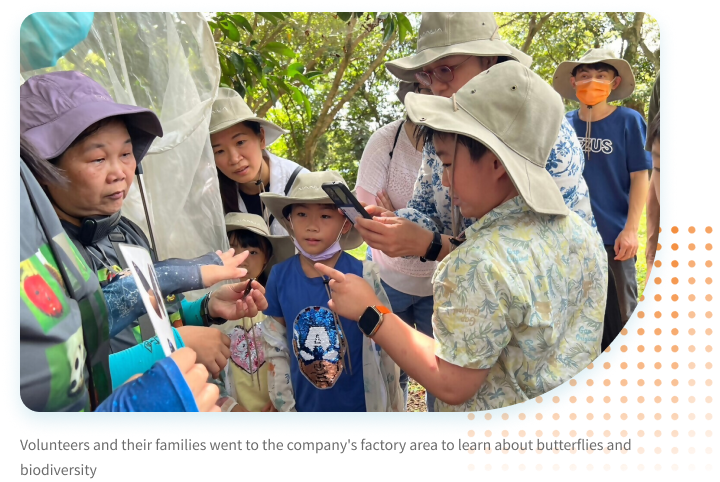
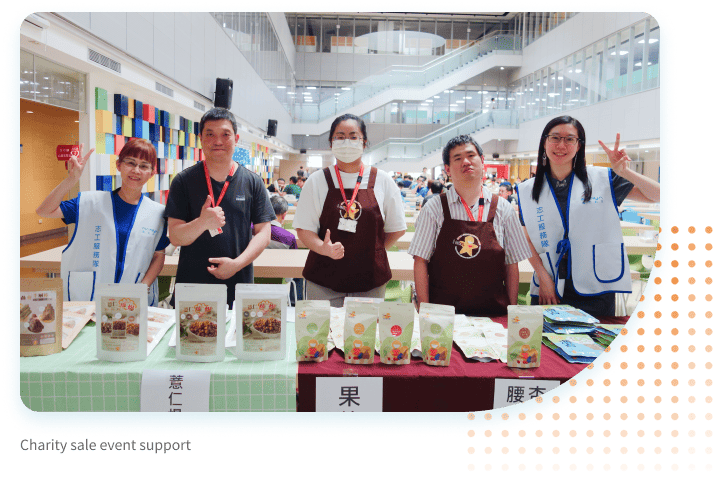
更共榮

diff --git a/en/common_good.html b/en/common_good.html
@@ -284,7 +284,7 @@ common-good  ">
               <small data-animate="fadeInUp" data-animate-delay="0.6">An Active Contributor to Society</small>
             </h1>
 
-            <p data-animate="fadeInUp" data-animate-delay="0.8">Nanya is committed to social engagement and participates in public affairs and local care to become an active participant that gives back to the society. We promote social influence and community development to lead society to a better and sustainable future.</p>
+            <p data-animate="fadeInUp" data-animate-delay="0.8">Nanya Technology is committed to social engagement and participates in public affairs and local care to become an active participant that gives back to the society. We promote social influence and community development to lead society to a better and sustainable future.</p>
           </div>
         </div>
 
@@ -384,10 +384,10 @@ common-good  ">
                       <h4>Social Engagement</h4>
 
                       <ul class="unordered">
-                          <li>Talent cultivation: Collaborating with schools to instill sustainability concepts in young students, and developing a diverse new generation of professional talent</li>
+                          <li>Talent Cultivation: Collaborating with schools to instill sustainability concepts in young students, and developing a diverse new generation of professional talent</li>
                           <li>Environmental Conservation: Connecting different types of non-profit organizations to promote environmental concepts, maintaining ecological diversity and moving toward a low-carbon society</li>
                           <li>Community Harmony: Engaging in neighborhood (nearby community) public affairs to create a harmonious and mutually beneficial living environment</li>
-                          <li>Humanistic care: Integrating Local Resources to Characterize Regional Humanistic Landscape</li>
+                          <li>Humanistic Care: Integrating Local Resources to Characterize Regional Humanistic Landscape</li>
                       </ul>
 
                     </div>
@@ -669,7 +669,7 @@ common-good  ">
                                 <ul class="unordered">
                                     <li>Responsible consumption n: A total of NT$312,924 spent through charity sales and farmers' markets</li>
                                     <li>Creating inclusive employment and sales opportunities: 16 organizations</li>
-                                    <li>Boosting community economy: Procured 228 kg of fair-trade coffee</li>
+                                    <li>Boosting community economy: Procured 228 kg of fair-trade coffee ; total project rental expenditure NT$297,360</li>
                                     <li>Promoting responsible consumption: Implemented across 5 schools</li>
                                 </ul>
                           </div>
@@ -916,7 +916,7 @@ common-good  ">
 
             </li>
             <li>
-              <b>Sports: table tennis,, taekwondo, and competitive gymnastics, basketball</b>
+              <b>Sports: table tennis, taekwondo, and competitive gymnastics, basketball</b>
 
 
                 <p><small>Sponsored</small> <em>2</em> <small>national athletes and</small> <em>5</em> <small>sports talents</small></p>
@@ -1014,8 +1014,7 @@ common-good  ">
 
                     <div class="tab-content__flexible">
                       <div class="wording">
-                        <strong>Humanistic Care</strong>
-                        <p>Promoting Cultural Industries – Salvaging Local Crafts and Creating New Memories</p>
+                        <strong>Promoting Cultural Industries – Salvaging Local Crafts and Creating New Memories</strong>
                         <p>Partners: Ministry of Culture's Taiwan Creative Content Agency, Taishan District Office, Ming Chi University of Technology, Upper Taishan Temple, Mingzhi Academy, EZ Show Drum Studio, Tien Circus Theatre, Corny Chicken Theatre, Professor Jean May Tsiang Culture and Education Foundation.</p>
 
                         
@@ -1073,8 +1072,7 @@ common-good  ">
 
                     <div class="tab-content__flexible">
                       <div class="wording">
-                        <strong>Community Harmony</strong>
-                        <p>Partnering with Neighborhoods: Engaging in Neighborhood Public Affairs to Create a Harmonious and Mutually Beneficial Living Environment</p>
+                        <strong>Partnering with Neighborhoods: Engaging in Neighborhood Public Affairs to Create a Harmonious and Mutually Beneficial Living Environment</strong>
 
                         
         <ul class="dashboard-cols" data-animate="fadeInUp" data-animate-delay="0.2">
@@ -1129,8 +1127,9 @@ common-good  ">
         
         <h2 class="anchor-heading aos">
           <img src="../img/svg/icon__common-good__anchor-3__anchor-heading.svg" alt="" data-animate="fadeInUp" data-animate-delay=".2">
-          <strong data-animate="fadeInUp" data-animate-delay=".3">Love Connection X Nanya Technology Volunteer Team—One May Go Fast, But a Group May Go Even Farther</strong>
+          <strong data-animate="fadeInUp" data-animate-delay=".3">Love Connection X Nanya Technology Volunteer Team</strong>
 
+            <span data-animate="fadeInUp" data-animate-delay=".4">One May Go Fast, But a Group May Go Even Farther</span>
         </h2>
       </div>
 
@@ -1237,10 +1236,6 @@ common-good  ">
                 data-animate-delay="0.2"
               >
 
-              <p
-                data-animate="fadeInUp"
-                data-animate-delay="0.3"
-              >Charity sale event support</p>
           </div>
 
           <div class="wording">
